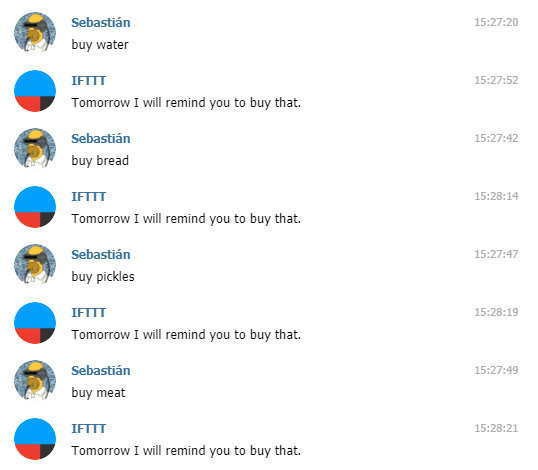
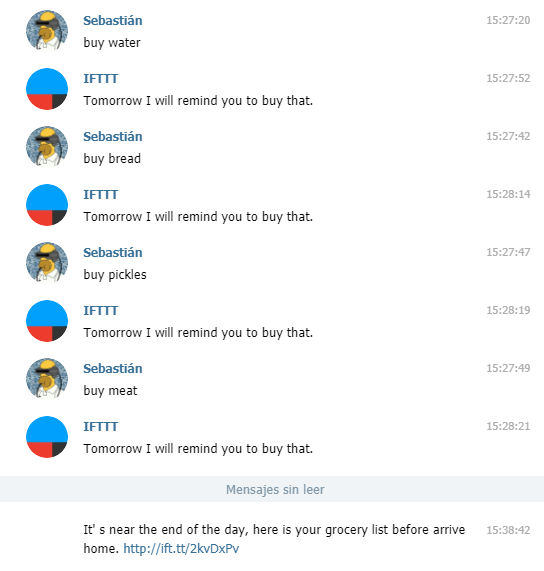
New clear list endoint

diff --git a/a-day-to-remember.js b/a-day-to-remember.js
@@ -30,6 +30,17 @@ function getItems(collection) {
 	})
 }
 
+function clearCollection(collection) {
+	return new Promise( (resolve, reject) => {
+
+		collection.remove({}, (err, result) => {
+			if(err) reject(err)
+
+			resolve({ok: true, msg: 'List empty'})
+		})
+	})
+}
+
 function send(res, contentType, payload) {
 
 	const header = contentType === 'json'? {'Content-Type': 'application/json'}:
@@ -68,6 +79,10 @@ function aDayToRemember(ctx, req, res) {
 			getItems(listCollection)
 			.then( items => send(res, 'html', htmlize(items)) )
 			.catch(err => send(res, 'json', JSON.stringify({msg: 'DB Error: Cannot get items'})) )
+		else if(op === 'clear')
+			clearCollection(listCollection)
+			.then(result => send(res, 'json', JSON.stringify(result)) )
+			.catch(err => send(res, 'json', JSON.stringify({msg: 'DB Error: Cannot clear items'})) )
 
 	})
 

diff --git a/README.md b/README.md
@@ -5,6 +5,8 @@
 `a-day-to-remember` is an experiment involving the serverless architecture of Auth0 webtasks and
 taking advantage of [IFTTT](https://ifttt.com)  built in services, specifically Telegram bots.
 
+A working example is here: [A day to remember](https://wt-2d0c1b127ddf2114db57608a0d9ef965-0.run.webtask.io/a-day-to-remember)
+
 ## Endpoints example
 ## Base URL
 ```sh
@@ -32,13 +34,24 @@ Gets all the items that were added.
 
 #### Parameters
  - op: get
+
+### Clear list
+```sh
+$ curl -s "https://wt-2d0c1b127ddf2114db57608a0d9ef965-0.run.webtask.io/a-day-to-remember/?webtask_no_cache=1&op=clear"
+{"ok":true,"msg":"List empty"}
+
+```
+Clear the list.
+
+#### Parameters
+ - op: clear
   
 ## IFTTT Applets
 
-Two applets were added to my IFTTT account.
+Three applets were added to my IFTTT account.
 
 ### Add applet
-Interacts with ifttt telegram bot, every time y type:
+Interacts with ifttt telegram bot, every time I type:
 ```
 buy something
 ```
@@ -48,3 +61,12 @@ It will trigger the add item endpoint, adding the item to the list
 ### Remind applet
 Near the time I left my job it me sends an url  the grocery list I built with the previous commands.
 Triggering the get all endpoint and showing on browser.
+
+
+### Clear list applet
+Interacts with ifttt telegram bot, every time I type:
+```
+clear
+```
+
+It will trigger the clear list
